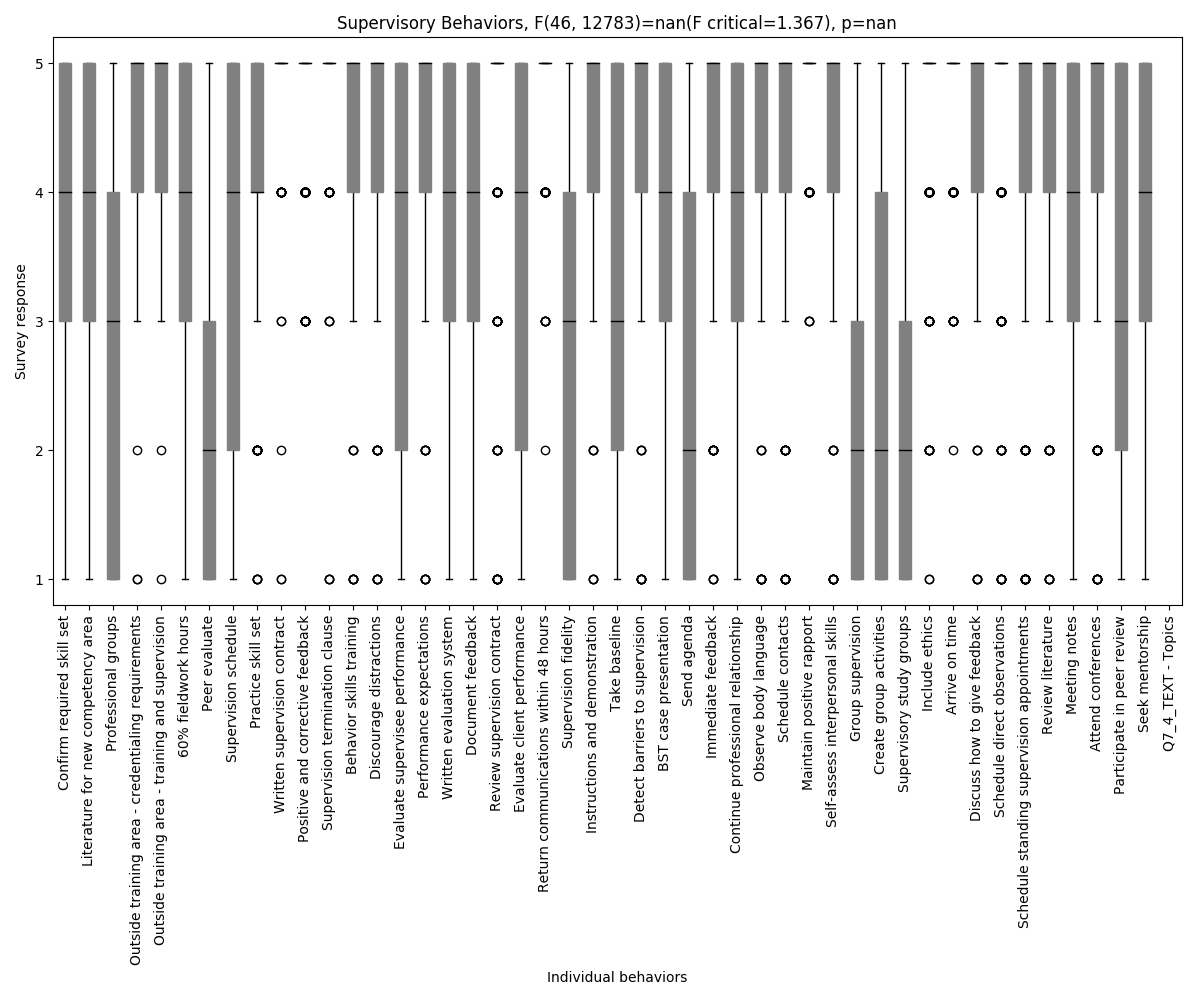
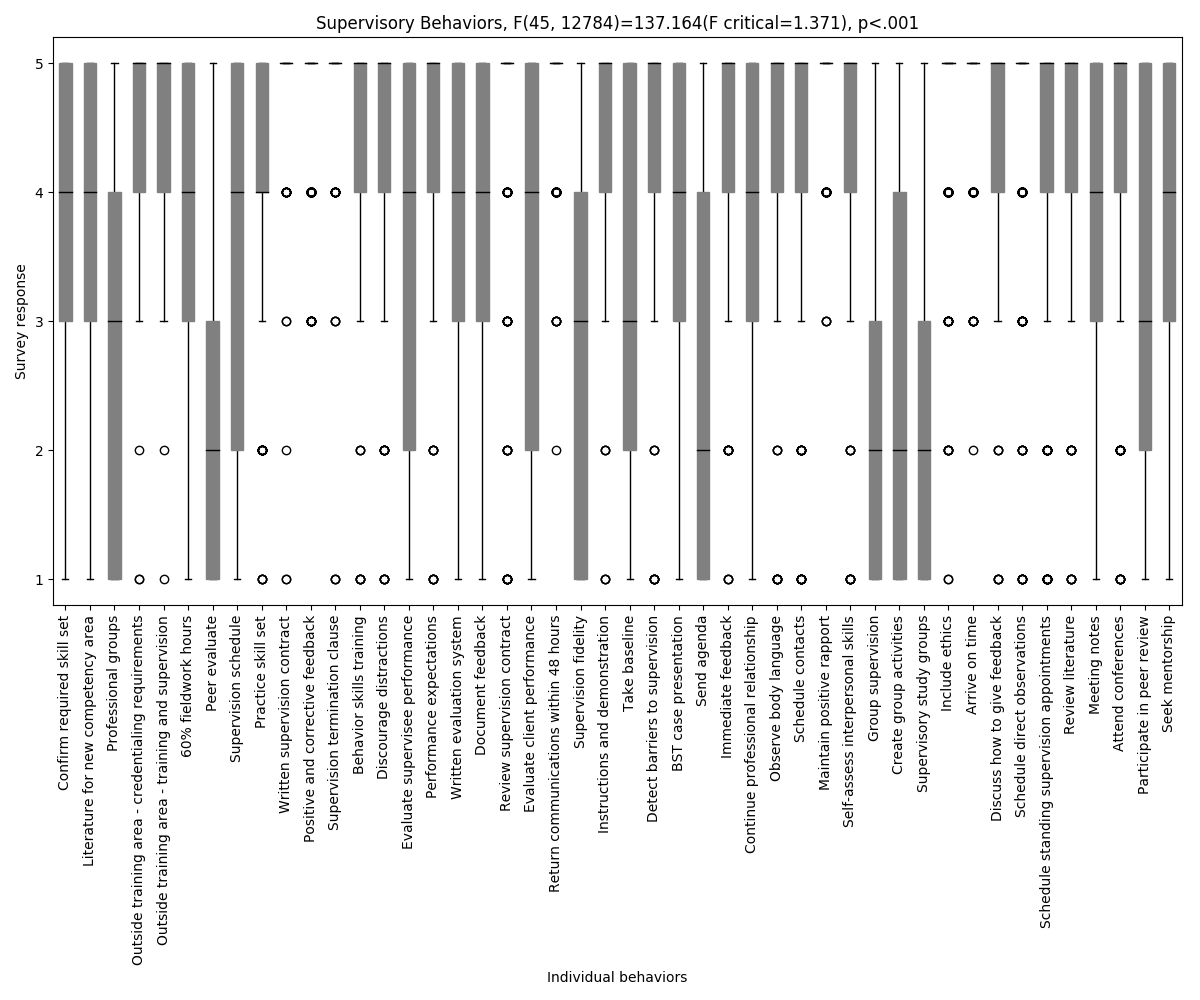
updated Q2_README.md

Changed region(s): [[0.0617, 0.062, 0.9867, 0.589], [0.0617, 0.62, 0.9867, 0.961], [0.2775, 0.0, 0.7708, 0.031]]

diff --git a/Q2/Q2_README.md b/Q2/Q2_README.md
@@ -1,17 +1,25 @@
-# Dissertation
+# Question 2
 
 ## Overview
-This application's purpose is to analyze data from a survey sent to members of the [Behavior Analyst Certification Board](https://www.bacb.com/).
+Are there significant differences between the averages of reported frequency of individual supervisor behaviors relative to other individual supervisor behaviors?
 
 The application was tested using Python 3.6.6 running on Ubuntu and relies on:
 * [Matplotlib](https://matplotlib.org/)
 * [Numpy](http://www.numpy.org/)
 * [Pandas](https://pandas.pydata.org/)
-* [Scikit-learn](http://scikit-learn.org/stable/)
+* [Scipy](https://www.scipy.org/)
 
 ## How it works
 
-1. Question 1: Descriptive statistics of survey results
-2. Question 2: Are there significant differences between the averages of reported frequency of individual supervisor behaviors relative to other individual supervisor behaviors?
-3. Question 3: Are there significant differences between frequency of  individual supervisor behaviors relative to supervisor demographics?
-4. Question 4: Are there correlations between supervisor behaviors and supervisee pass rates?
+1. Export data from Qualtrics as a comma separated (.csv) file
+2. Use Python to load .csv file into a Pandas dataframe
+3. Drop survey responses that were not finished (i.e., 'Finished'==False)
+4. Combine columns with text-based options. (i.e., include information written by respondents in the 'Other' columns)
+5. Replace text with integers where appropriate. (e.g., convert choices like '0-20%' to 1, '21-40%' to 2, etc.)
+6. Drop all the survey metadata. (e.g., IP address, time submitted, etc.)
+7. Drop non-supervisor behaviors (i.e., demographics)
+8. For each column (which at this point only represent supervisor behaviors) in the dataframe, drop the NaNs and turn the column into a list
+9. Pass all the lists (representing all the supervisor behaviors) to scipy stats' oneway ANOVA which returns F and p-value
+10. Calculate the degrees of freedom based on the number of groups and the number of items in each group
+11. Use degrees of freedom to calculate the critical F-value
+12. Make a labeled boxplot of all the behaviors
